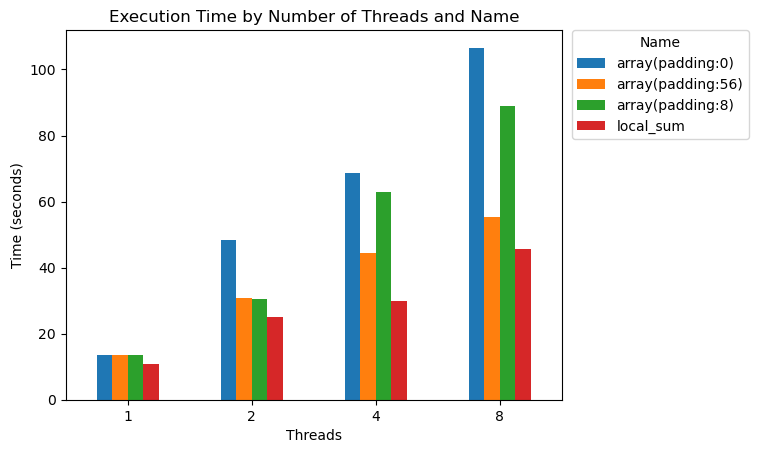
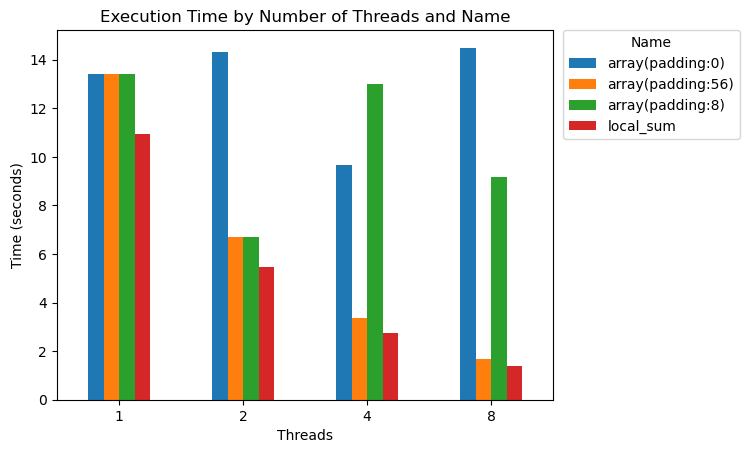
fixed race condition, much better times now. adapted sollution.txt and diagram

diff --git a/w03/e03/monte_carlo_array.c b/w03/e03/monte_carlo_array.c
@@ -17,14 +17,17 @@ double rand_double(unsigned* seed) {
 
 double monte_carlo(size_t threads, size_t n) {
     void* sum_array = calloc(threads, (sizeof(size_t) + PADDING));
-    unsigned seed = time(NULL);
 
-#pragma omp parallel for num_threads(threads)
-    for(size_t i = 0; i < n; i++) {
-        double x = rand_double(&seed), y = rand_double(&seed);
-	size_t* val = (size_t*)(sum_array + (sizeof(size_t) + PADDING) * omp_get_thread_num());
-        if(x * x + y * y <= 1) {
-            (*val)++;
+    #pragma omp parallel num_threads(threads)
+    {
+    unsigned seed = time(NULL) + omp_get_thread_num();
+    #pragma omp for
+        for(size_t i = 0; i < n; i++) {
+            double x = rand_double(&seed), y = rand_double(&seed);
+            size_t* val = (size_t*)(sum_array + (sizeof(size_t) + PADDING) * omp_get_thread_num());
+            if(x * x + y * y <= 1) {
+                (*val)++;
+            }
         }
     }
     size_t sum = 0;

diff --git a/w03/e03/monte_carlo_local_sum.c b/w03/e03/monte_carlo_local_sum.c
@@ -9,22 +9,22 @@ double rand_double(unsigned* seed) {
 }
 
 double monte_carlo(size_t threads, size_t n) {
-    unsigned seed = time(NULL);
     size_t sum = 0;
-#pragma omp parallel num_threads(threads)
-{
-	size_t inside = 0;
-#pragma omp for
-	    for(size_t i = 0; i < n; i++) {
-		double x = rand_double(&seed), y = rand_double(&seed);
+    #pragma omp parallel num_threads(threads)
+    {
+        unsigned seed = time(NULL) + omp_get_thread_num();
+        size_t inside = 0;
+        #pragma omp for
+        for(size_t i = 0; i < n; i++) {
+            double x = rand_double(&seed), y = rand_double(&seed);
 
-		if(x * x + y * y <= 1) {
-		    inside++;
-		}
-	    }
-#pragma omp atomic
-    sum += inside;
-}
+            if(x * x + y * y <= 1) {
+                inside++;
+            }
+        }
+        #pragma omp atomic
+        sum += inside;
+    }
     return (double)(4 * sum) / (double)n;
 }
 
